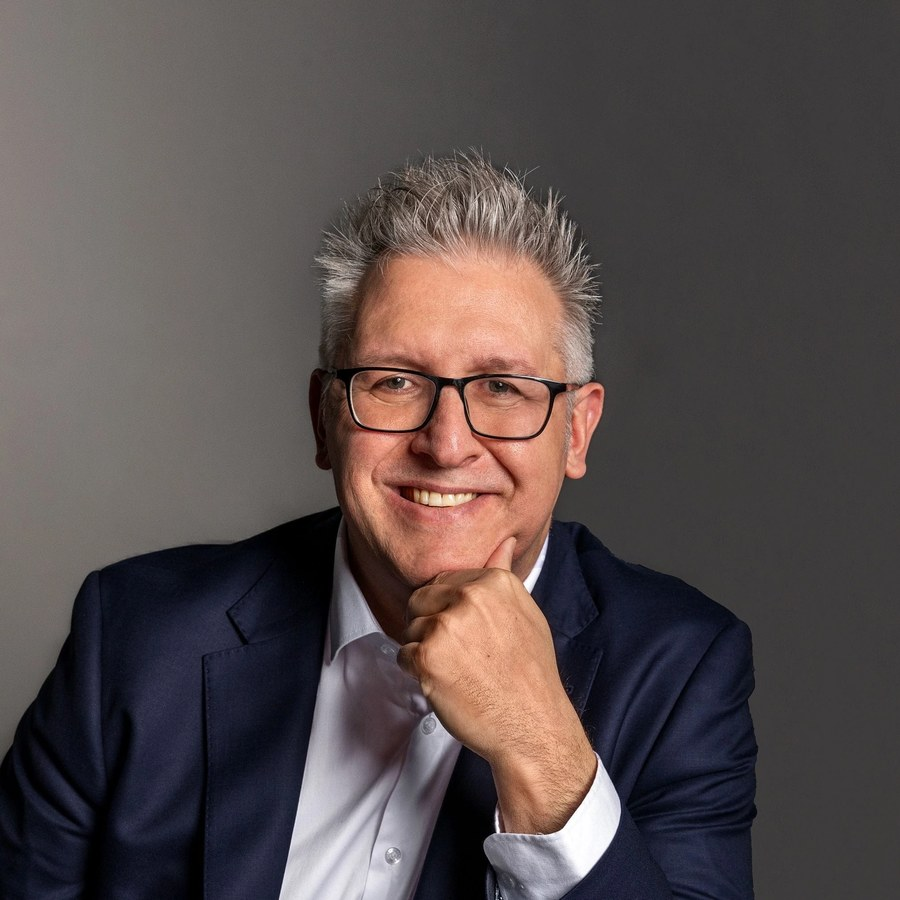
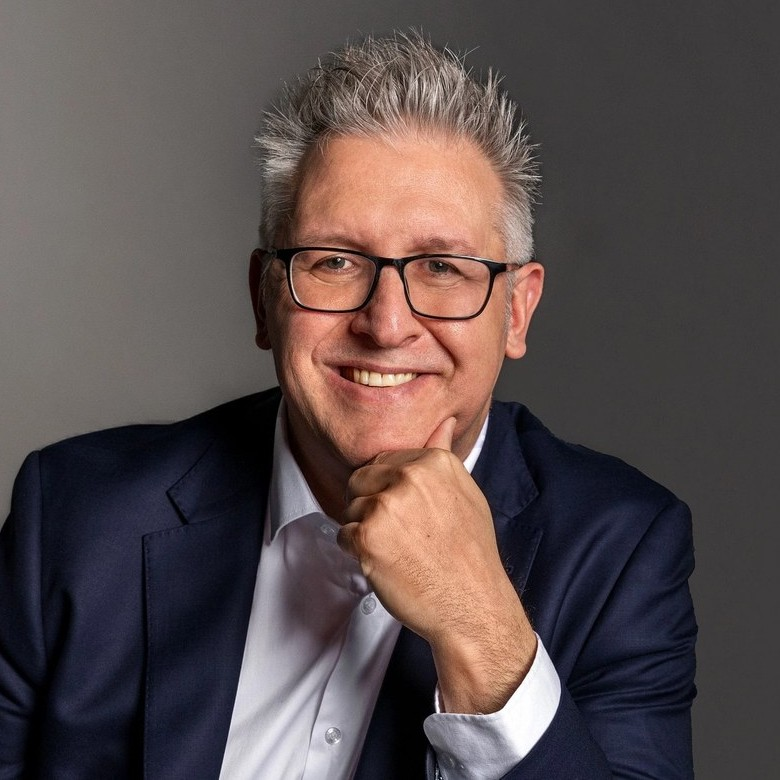
Marty host page: reframe bio to founding-host past tense, drop personal links, re-crop photo

diff --git a/marty-vidakovic.html b/marty-vidakovic.html
@@ -4,7 +4,7 @@
 <meta charset="utf-8">
 <meta name="viewport" content="width=device-width, initial-scale=1">
 <title>Marty Vidakovic — The Numbers Game</title>
-<meta name="description" content="Meet Marty Vidakovic: 30+ years building award-winning mortgage broking and finance businesses, and a co-host of The Numbers Game through its first 17 seasons.">
+<meta name="description" content="Marty Vidakovic was one of the founding hosts of The Numbers Game, on the mic from 2021 through to the end of 2025 — 30+ years in finance, plus the wisdom, humour and banter, in every conversation.">
 <link rel="preconnect" href="https://fonts.googleapis.com">
 <link rel="preconnect" href="https://fonts.gstatic.com" crossorigin>
 <link href="https://fonts.googleapis.com/css2?family=Anton&family=Inter:wght@400;500;600;700;800&display=swap" rel="stylesheet">
@@ -14,7 +14,7 @@
 <meta property="og:type" content="website">
 <meta property="og:site_name" content="The Numbers Game">
 <meta property="og:title" content="Marty Vidakovic — The Numbers Game">
-<meta property="og:description" content="30+ years building award-winning mortgage broking and finance businesses, and a co-host of The Numbers Game through its first 17 seasons.">
+<meta property="og:description" content="Marty Vidakovic was one of the founding hosts of The Numbers Game, on the mic from 2021 through to the end of 2025 — 30+ years in finance, plus the wisdom, humour and banter, in every conversation.">
 <meta property="og:url" content="https://thenumbersgamepodcast.com.au/marty-vidakovic">
 <meta property="og:image" content="https://thenumbersgamepodcast.com.au/assets/og-image.jpg">
 <meta name="twitter:card" content="summary_large_image">
@@ -86,8 +86,8 @@
   .hostart{width:100%;height:100%;object-fit:cover;object-position:center 18%;display:block;box-shadow:16px 16px 0 var(--purple);order:2;background:linear-gradient(155deg,#3a2a86,#211056)}
   @media(max-width:900px){.hostart{order:0}}
   @media(max-width:900px){.hostart{height:auto;aspect-ratio:1/1;max-width:340px;margin:0 auto}}
-  .quote{font-family:var(--display);font-weight:400;text-transform:uppercase;letter-spacing:.3px;line-height:1.15;
-    font-size:clamp(19px,2.1vw,24px);color:var(--mint);margin-bottom:22px}
+  .bio a.biolink{color:var(--mint);text-decoration:none;border-bottom:1px solid rgba(122,217,168,.4);transition:.15s}
+  .bio a.biolink:hover{border-color:var(--mint)}
   .bio .lead{font-size:17px;line-height:1.75;color:var(--muted)}
   .bio .lead b{color:var(--white);font-weight:700}
   .bio p+p{margin-top:22px}
@@ -128,7 +128,7 @@
   .copyright{font-size:12px;color:var(--dim);text-align:center}
   @media(max-width:720px){.footgrid{grid-template-columns:1fr;gap:34px}footer{padding:40px 16px 20px}.footbar{margin-top:34px;padding-top:24px;gap:20px}.footnav-dd .dd-links{flex-direction:column;align-items:center;gap:15px}}
 </style>
-<script type="application/ld+json">{"@context": "https://schema.org", "@type": "Person", "name": "Marty Vidakovic", "jobTitle": "Sales & business mentor; former co-host, The Numbers Game", "url": "https://thenumbersgamepodcast.com.au/marty-vidakovic", "image": "https://thenumbersgamepodcast.com.au/assets/Marty-Vidakovic-4.jpg", "sameAs": ["https://www.linkedin.com/in/charliemartincapital/", "https://martyvids.com.au/"]}</script>
+<script type="application/ld+json">{"@context": "https://schema.org", "@type": "Person", "name": "Marty Vidakovic", "jobTitle": "Founding co-host, The Numbers Game", "url": "https://thenumbersgamepodcast.com.au/marty-vidakovic", "image": "https://thenumbersgamepodcast.com.au/assets/Marty-Vidakovic-4.jpg"}</script>
 </head>
 <body>
 
@@ -174,26 +174,15 @@
   <main>
     <div class="storysec">
       <div class="photowrap">
-        <img class="hostart" src="assets/Marty-Vidakovic-4.jpg" alt="Marty Vidakovic, co-host of The Numbers Game">
+        <img class="hostart" src="assets/Marty-Vidakovic-4.jpg" alt="Marty Vidakovic, founding host of The Numbers Game">
         <h1 class="advtitle">
           <span class="tb tb-p">Marty</span>
           <span class="tb tb-m">Vidakovic</span>
         </h1>
       </div>
       <div class="bio">
-        <p class="quote">"Let's simplify strategy, focus on what works, and grow with confidence."</p>
-        <p class="lead"><b>Marty Vidakovic brings over 30 years of experience building award-winning businesses in the mortgage broking and finance industry</b> — and for the show's first 17 seasons, he was one of the three voices of The Numbers Game. His insights are rooted in real-world experience, combined with a track record of strong sales, strategy and financial performance.</p>
-        <p>Under his direction, methodology and guidance, Marty's sales teams have performed consistently two to three times above industry standards. He encourages and instils confidence, simplicity, focus and impact on the way to helping people and their teams achieve greater results.</p>
-        <p>Marty understands that every business is unique — and with that come unique challenges and opportunities. So he tailors a mentoring program specifically aligned to what you want to accomplish, executing to agreed timeframes and set goals, so you can enjoy the satisfaction of building a high-performance sales culture, higher revenues, profitability and business value. Friendly and determined by nature, he strikes a good balance of driving through personal and business limitations in a supportive way, in order to attain exceptional results.</p>
-        <div class="socials">
-          <a href="https://www.linkedin.com/in/charliemartincapital/" target="_blank" rel="noopener" aria-label="Marty on LinkedIn">
-            <svg viewBox="0 0 24 24"><path d="M4.98 3.5C4.98 4.88 3.87 6 2.5 6S0 4.88 0 3.5 1.12 1 2.5 1s2.48 1.12 2.48 2.5zM.24 8.25h4.52V23H.24V8.25zM8.34 8.25h4.33v2.01h.06c.6-1.14 2.08-2.34 4.28-2.34 4.58 0 5.42 3.01 5.42 6.92V23h-4.51v-7.16c0-1.71-.03-3.91-2.38-3.91-2.39 0-2.75 1.86-2.75 3.78V23H8.34V8.25z"/></svg>
-            LinkedIn
-          </a>
-          <a href="https://martyvids.com.au/" target="_blank" rel="noopener" aria-label="Marty's website">
-            martyvids.com.au
-          </a>
-        </div>
+        <p class="lead"><b>Marty Vidakovic was one of the founding hosts of The Numbers Game when it kicked off back in 2021</b>, bringing more than 30 years of experience in finance to every conversation, along with the wisdom, humour and banter.</p>
+        <p>He stepped away at the end of 2025, but his voice still runs deep through the whole back catalogue. You can head to the <a class="biolink" href="/episodes">Explore Episodes page</a> to hear some vintage Marty V.</p>
       </div>
     </div>
   </main>